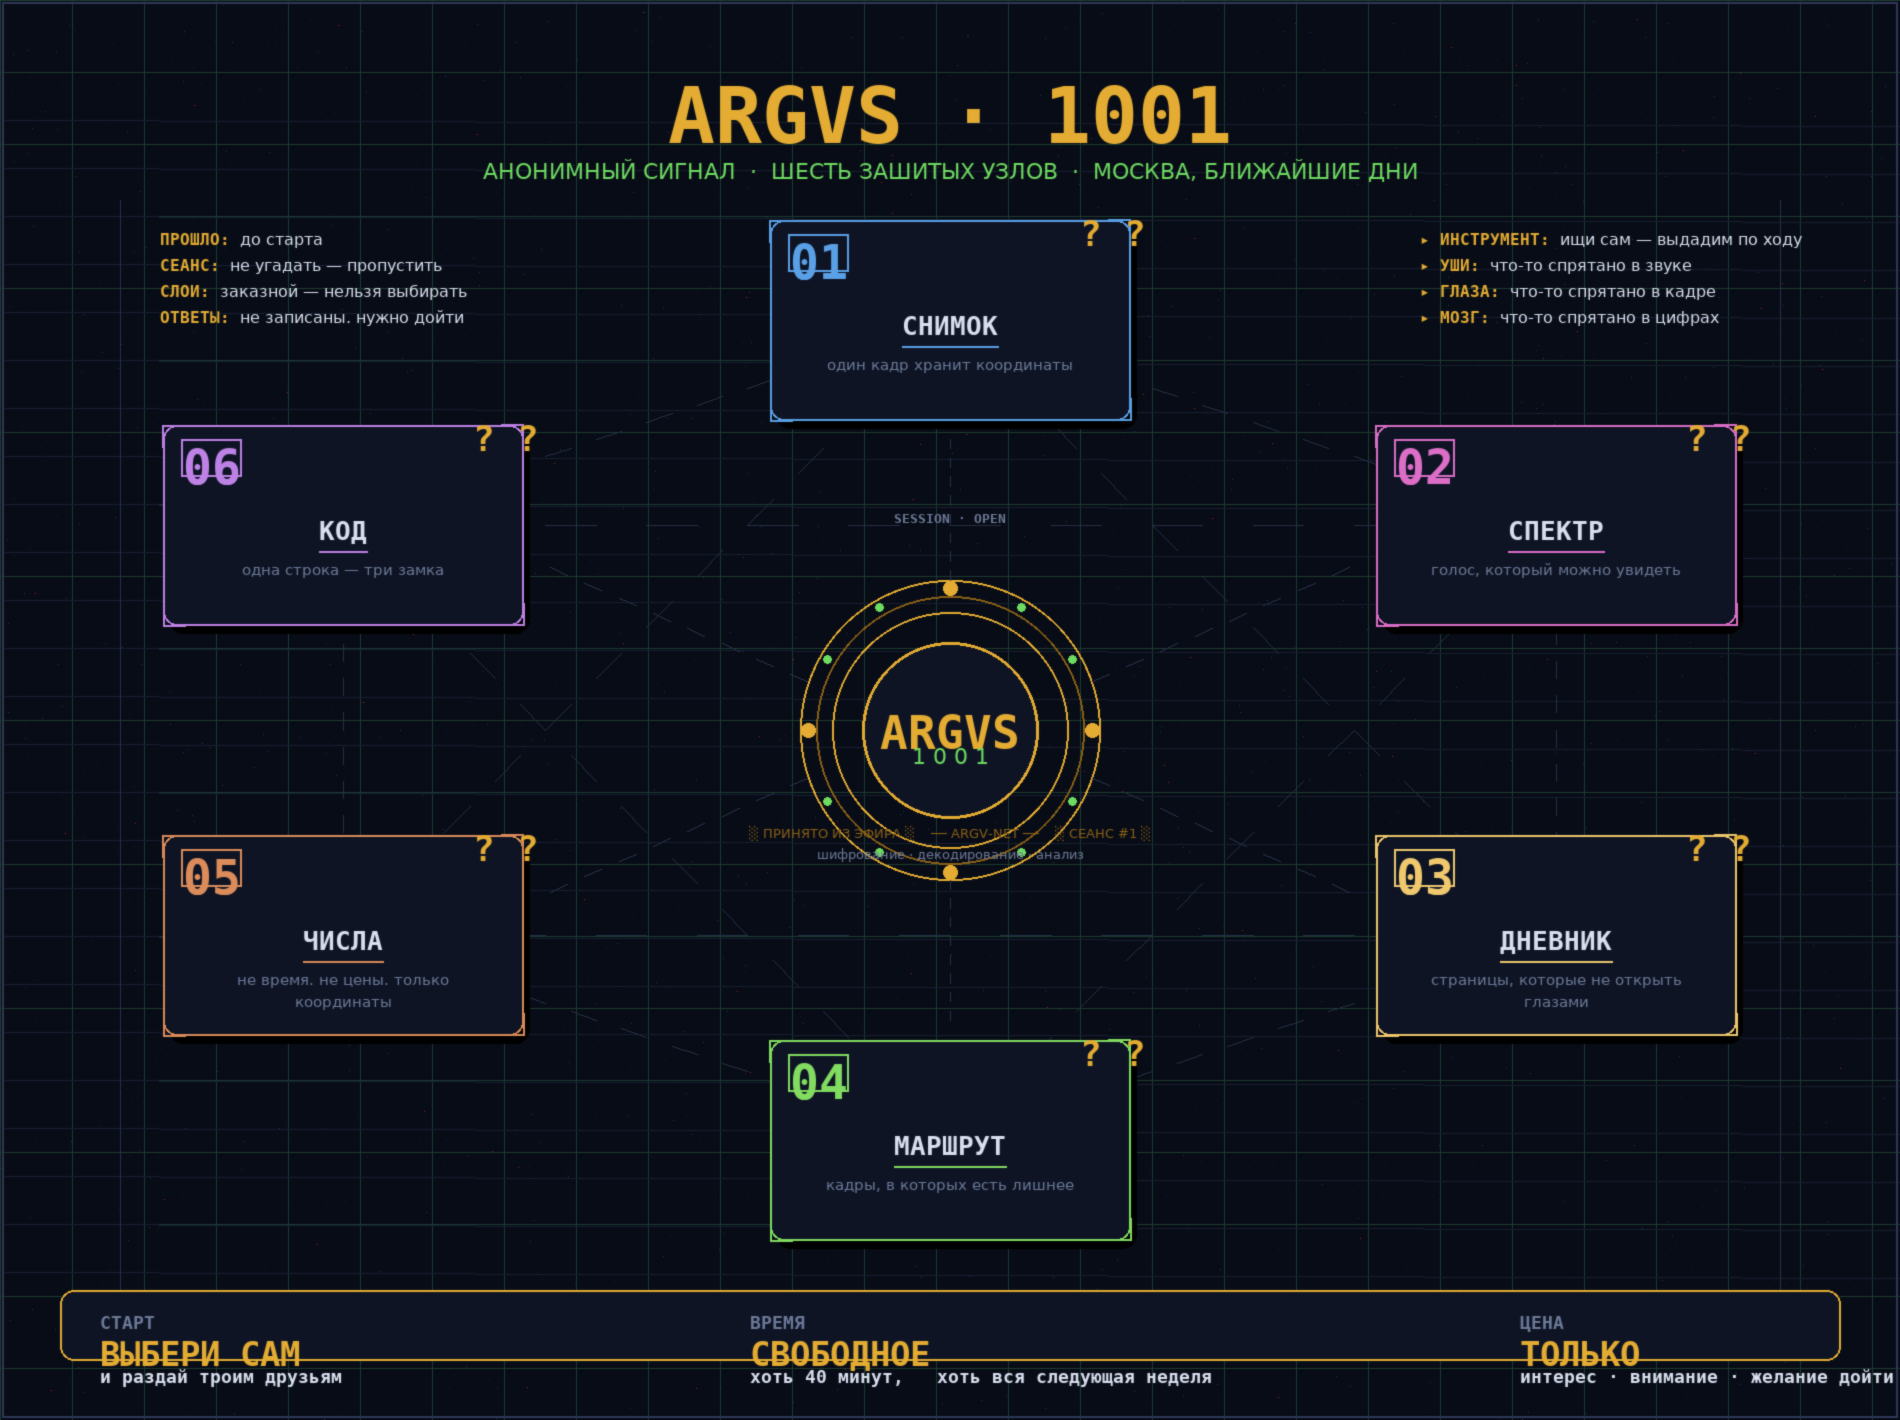
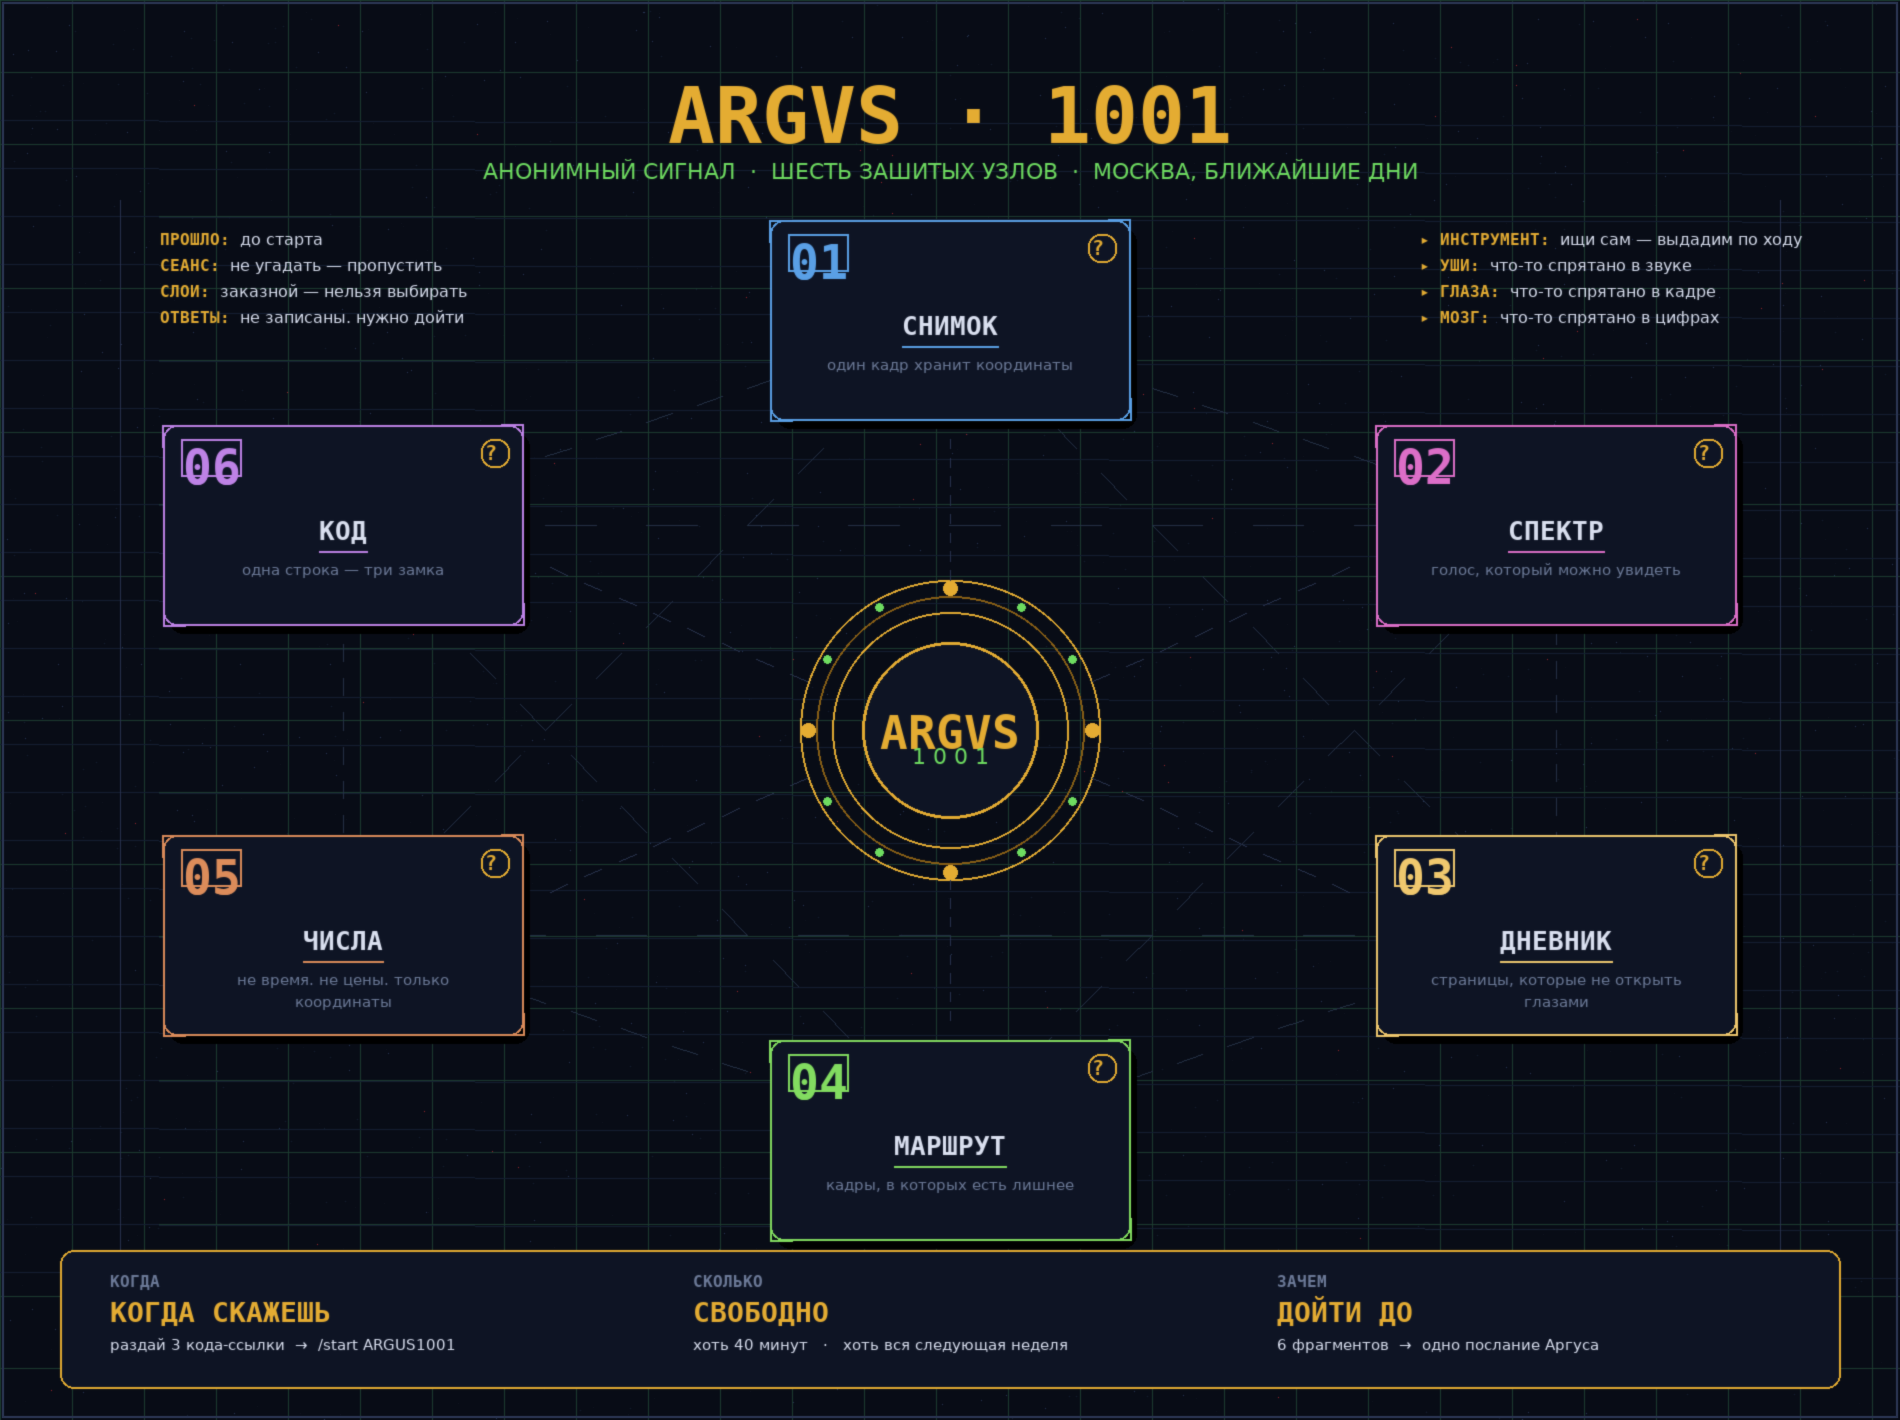
polish: чистовик тизера без ответов
- большая золотая печать ARGVS · 1 0 0 1 в центре
- 6 «глифчатых» карточек с номерами и крипто-намёками
- в карточках только имя узла + однострочная подсказка-намёк
  (БЕЗ метода, БЕЗ ответа, БЕЗ фрагмента)
- тонкие пунктиры центр↔узел + узел↔узел (любой порядок)
- угловые постерные скобки по периметру карточек + «?»-замочек
- сетка-«эфир» + точечный шум (плёнка)
- лёгкое окошко «SESSION · CHANNEL 0xARGV-1001 · OPEN» — намёк на канал/сессию
- боковые ПЛАШКИ в стиле справочника (ПРОШЛО/СЕАНС/СЛОИ/ОТВЕТЫ и УШИ/ГЛАЗА/МОЗГ)
- НИЖНЯЯ ПЛАШКА в три колонки: КОГДА / СКОЛЬКО / ЗАЧЕМ

diff --git a/tools/make_quest_teaser.py b/tools/make_quest_teaser.py
@@ -183,9 +183,13 @@ def draw_node_card(draw, cx, cy, num, name, cryptic, color):
         lw, _ = text_size(draw, line, fs)
         draw.text((cx - lw / 2, fnt_y + 46 + i * 22), line, fill=DIM, font=fs)
 
-    # засекреченный «замо́к»: ? символ над правым углом
-    fl = f(36, bold=True)
-    draw.text((x1 - 50, y0 - 8), "? ?", fill=GOLD, font=fl)
+    # засекреченный «замо́к»: один ? в золотой скобе-пилюле
+    fl = f(20, bold=True)
+    px = x1 - 38
+    py = y0 + 18
+    draw.rounded_rectangle((px - 4, py - 4, px + 24, py + 24),
+                           radius=12, fill=PANEL, outline=GOLD, width=2)
+    draw.text((px, py - 2), "?", fill=GOLD, font=fl)
 
 
 def render(out_path: Path) -> None:
@@ -220,20 +224,11 @@ def render(out_path: Path) -> None:
     cx, cy = W / 2, H / 2 + 20
     draw_central_emblem(draw, int(cx), int(cy))
 
-    # над печатью: «НОМЕР СЕАНСА · 0001» — мелкой готической меткой
+    # над печатью — мелкая капс-метка сеанса
     sidemark = f(13, bold=True)
-    side = СЕАНС if False else "SESSION · OPEN"   # noqa: keep literal
+    side = "SESSION  ·  CHANNEL  0xARGV-1001  ·  OPEN"
     sw2, _ = text_size(draw, side, sidemark)
-    draw.text(((W - sw2) / 2, cy - 220), side, fill=DIM, font=sidemark)
-
-    # под печатью: одна строка — «получено в эфире»
-    rx = f(13)
-    rec = "░ ПРИНЯТО ИЗ ЭФИРА ░    ── ARGV-NET ──    ░ СЕАНС #1 ░"
-    rw, _ = text_size(draw, rec, rx)
-    draw.text(((W - rw) / 2, cy + 95), rec, fill=GOLD_SOFT, font=rx)
-    rec2 = "шифрование · декодирование · анализ"
-    r2w, _ = text_size(draw, rec2, rx)
-    draw.text(((W - r2w) / 2, cy + 116), rec2, fill=DIM, font=rx)
+    draw.text(((W - sw2) / 2, 220), side, fill=DIM, font=sidemark)
 
     # === 6 узлов вокруг печати ===
     RY, RX = 410, 700
@@ -316,29 +311,38 @@ def render(out_path: Path) -> None:
         draw.text((W - 460 + kw, y), v, fill=PALE, font=f_left)
         y += 26
 
-    # === НИЖНИЙ БЛОК: когда / что ===
-    band_y = H - 130
-    draw.rounded_rectangle((60, band_y, W - 60, H - 60), 14,
+    # === НИЖНИЙ БЛОК: когда / что / итог ===
+    band_y = H - 170
+    band_end = H - 32
+    draw.rounded_rectangle((60, band_y, W - 60, band_end), 14,
                            fill=PANEL, outline=GOLD, width=2)
 
-    fs = f(18, bold=True)
-    # Левая панель — дата
-    draw.text((100, band_y + 22), "СТАРТ", fill=DIM, font=fs)
-    fd = f(34, bold=True)
-    draw.text((100, band_y + 44), "ВЫБЕРИ САМ", fill=GOLD, font=fd)
-    draw.text((100, band_y + 76), "и раздай троим друзьям", fill=PALE, font=fs)
+    label_font = f(16, bold=True)
+    title_font = f(28, bold=True)
+    sub_font = f(15)
 
-    # Центр
-    draw.text((W / 2 - 200, band_y + 22), "ВРЕМЯ", fill=DIM, font=fs)
-    draw.text((W / 2 - 200, band_y + 44), "СВОБОДНОЕ", fill=GOLD, font=fd)
-    draw.text((W / 2 - 200, band_y + 76), "хоть 40 минут,   хоть вся следующая неделя",
-              fill=PALE, font=fs)
+    col_w = (W - 120 - 120) / 3     # ширина одной колонки
+    cx_left = 110
+    cx_mid  = cx_left + col_w + 30
+    cx_right = cx_mid + col_w + 30
 
-    # Правая панель
-    draw.text((W - 380, band_y + 22), "ЦЕНА", fill=DIM, font=fs)
-    draw.text((W - 380, band_y + 44), "ТОЛЬКО", fill=GOLD, font=fd)
-    draw.text((W - 380, band_y + 76), "интерес · внимание · желание дойти до конца",
-              fill=PALE, font=fs)
+    # Колонка 1 — СТАРТ
+    draw.text((cx_left, band_y + 22),  "КОГДА",      fill=DIM,   font=label_font)
+    draw.text((cx_left, band_y + 46),  "КОГДА СКАЖЕШЬ", fill=GOLD,  font=title_font)
+    draw.text((cx_left, band_y + 86),  "раздай 3 кода-ссылки  →  /start ARGUS1001",
+              fill=PALE, font=sub_font)
+
+    # Колонка 2 — ВРЕМЯ
+    draw.text((cx_mid, band_y + 22),  "СКОЛЬКО",      fill=DIM,   font=label_font)
+    draw.text((cx_mid, band_y + 46),  "СВОБОДНО",     fill=GOLD,  font=title_font)
+    draw.text((cx_mid, band_y + 86),  "хоть 40 минут   ·   хоть вся следующая неделя",
+              fill=PALE, font=sub_font)
+
+    # Колонка 3 — ИТОГ
+    draw.text((cx_right, band_y + 22),  "ЗАЧЕМ",       fill=DIM,   font=label_font)
+    draw.text((cx_right, band_y + 46),  "ДОЙТИ ДО",    fill=GOLD,  font=title_font)
+    draw.text((cx_right, band_y + 86),  "6 фрагментов  →  одно послание Аргуса",
+              fill=PALE, font=sub_font)
 
     # финальная рамка
     draw.rectangle((2, 2, W - 3, H - 3), outline=EDGE, width=2)
